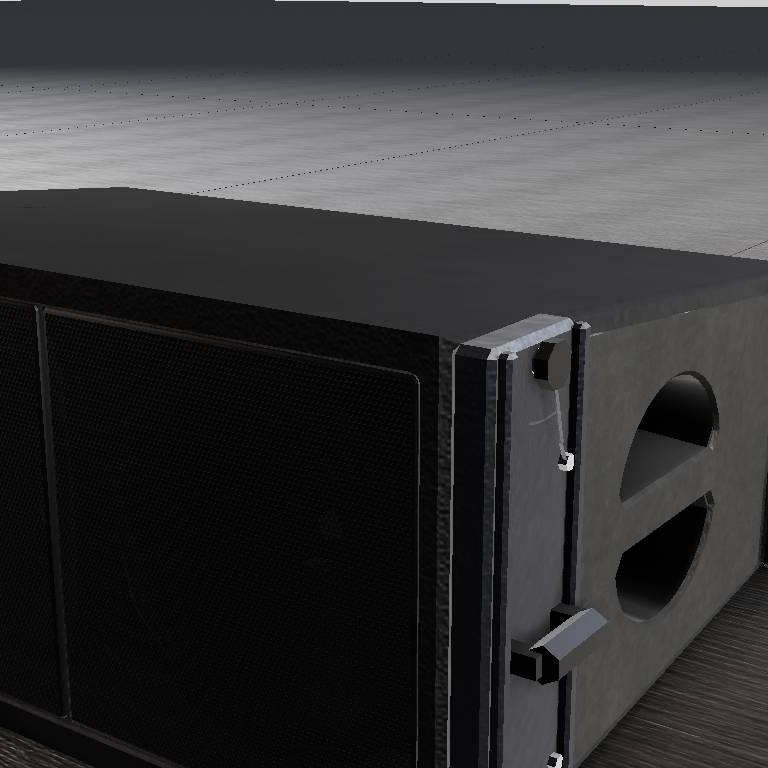
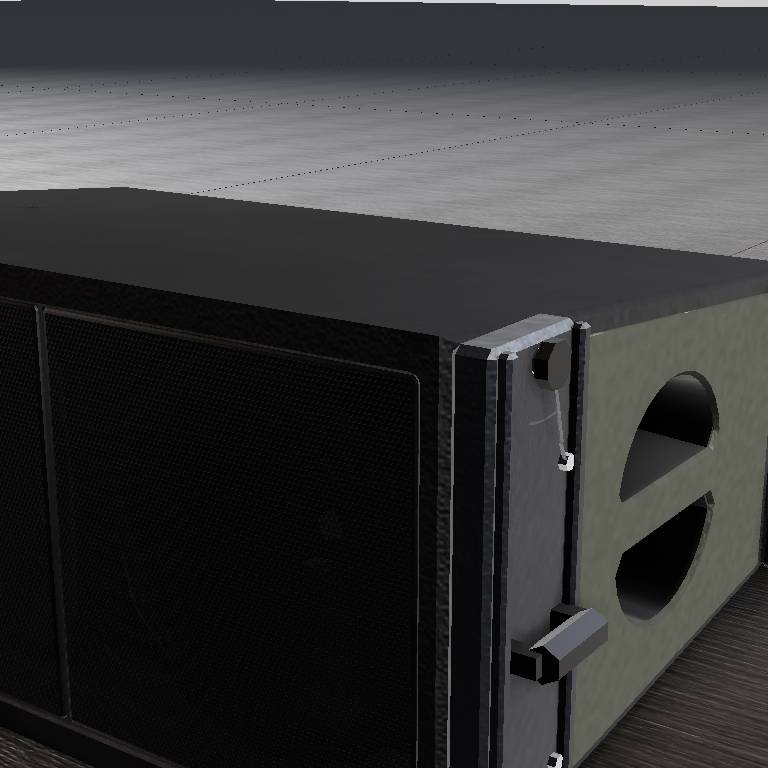
Round 9: the cheeks in olive-grey, as the photos have them (Part of #5468)

Changed region(s): [[0.75, 0.4062, 1.0, 0.9062], [0.75, 0.875, 0.7812, 0.9375]]

diff --git a/packages/models/src/surfaces.ts b/packages/models/src/surfaces.ts
@@ -65,8 +65,8 @@ export const SURFACES = {
   plastic: { tile: 0.35, tint: 0x8e8e8e, roughness: 1, metalness: 0, color: true, normalScale: 0.5, wear: { chip: 0x6a6866, stipple: 1.0, scuff: 1, matte: 0.6 } },
   /** A line array box's shell: the black plastic in an even fine pebble coat, hardly scuffed (no blotches on the top). */
   coat: { dir: "plastic", tile: 0.35, tint: 0x7a7a7a, roughness: 1, metalness: 0, color: true, normalScale: 0.35, wear: { chip: 0x5a5856, stipple: 1.3, scuff: 0.15, matte: 0.7 } },
-  /** A line array box's side cheeks: a warm grey pebble-coat panel, set off against the black shell. */
-  cheek: { dir: "plastic", tile: 0.35, tint: 0xd8d6c8, roughness: 1, metalness: 0, color: true, normalScale: 0.6, wear: { chip: 0x9a988c, stipple: 1.4, scuff: 0.2, matte: 0.75 } },
+  /** A line array box's side cheeks: an olive-grey pebble-coat panel (flat colour, no photo map), set off against the black shell. */
+  cheek: { dir: "plastic", tile: 0.35, tint: 0x3a3c33, roughness: 0.92, metalness: 0, normalScale: 0.8, wear: { chip: 0x9a988c, stipple: 1.4, scuff: 0.2, matte: 0.75 } },
 } as const satisfies Record<string, Spec>;
 export type SurfaceName = keyof typeof SURFACES;
 export const SURFACE_NAMES = Object.keys(SURFACES) as SurfaceName[];
